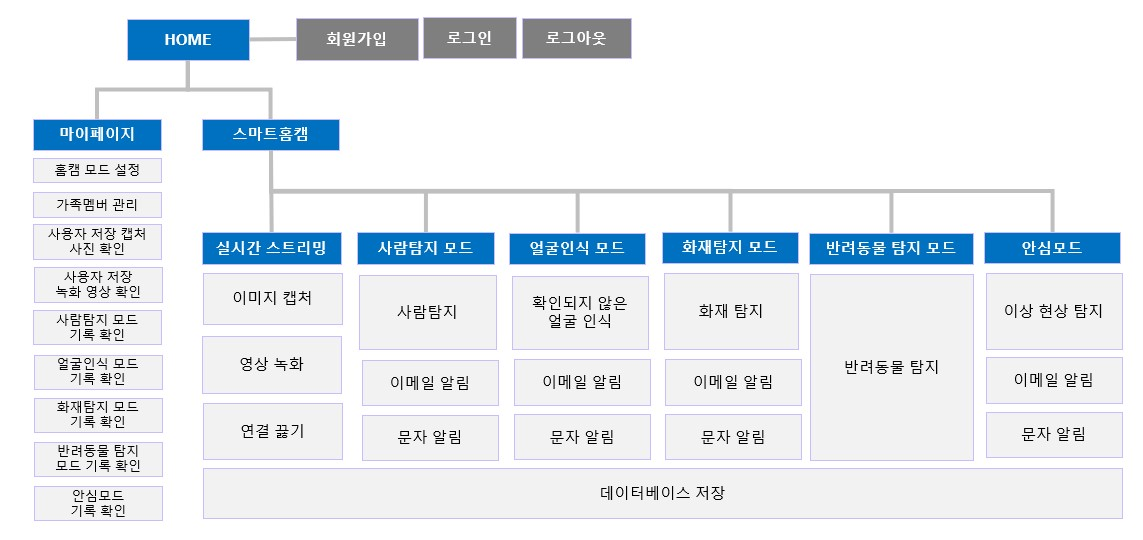
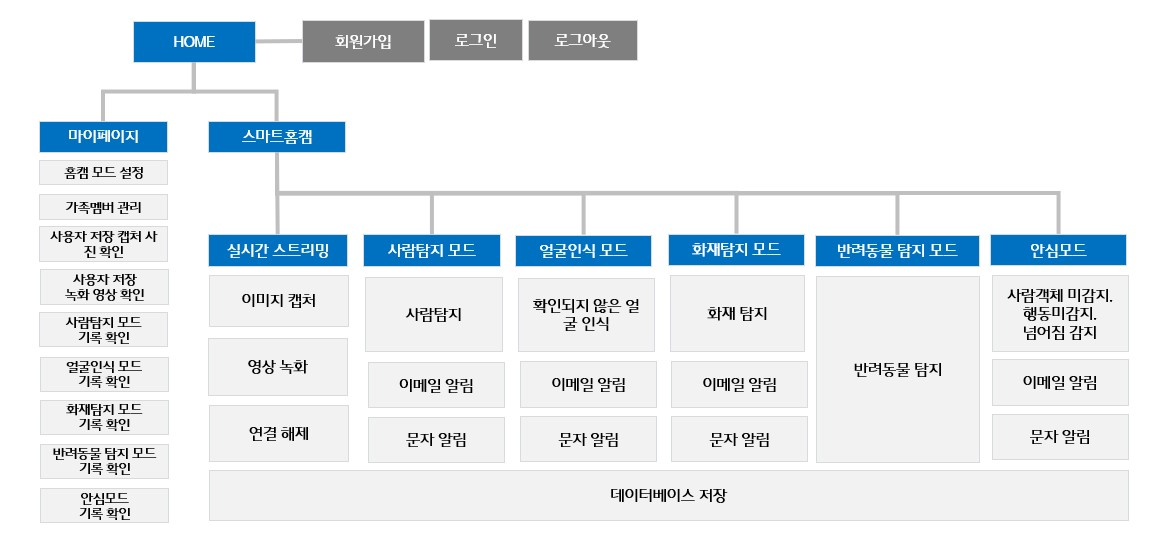
readme-20220616

diff --git a/README.md b/README.md
@@ -4,6 +4,9 @@
 
 라즈베리파이와 인공지능을 이용한 스마트 홈캠 웹 서비스
 
+## 주제 선정 배경
+1인 가구의 증가와 반려가구 1500만 시대에 따라 외출 중에  카메라를 통해 집안상황 확인, 방범 서비스, 화재감지, 반려동물을 확인을 할 수 있다.
+
 <br>
 
 ## 작품명
@@ -15,13 +18,6 @@ SmartHomeCam
 
 2022.04 ~ 개발 중
 
-<br>
-
-## 작품 기능
-
-- 계정 기능
-- 홈캠
-- 마이페이지
 
 <br>
 
@@ -37,3 +33,65 @@ SmartHomeCam
 
 ![구조](images/menu.jpg)
 
+<br>
+
+## 작품 기능
+
+![기능](images/fun1.jpg)
+
+<hr>
+
+
+### 기능 - 계정
+
+![기능](images/account1.jpg)
+
+
+<hr>
+
+### 기능 - 스마트 홈캠
+
+![기능](images/homecam1.jpg)
+<hr>
+
+![기능](images/homecam2.jpg)
+실시간 스트리밍 기능입니다. 연결된 홈캠을 클릭하면 실시간 스트리밍을 볼 수 있습니다. 녹화하기, 캡처하기, 연결끊기 버튼이 있습니다. 
+<hr>
+
+![기능](images/homecam3.jpg)
+사람탐지 모드입니다.
+<hr>
+
+![기능](images/homecam4.jpg)
+얼굴인식 모드입니다.
+<hr>
+
+![기능](images/homecam5.jpg)
+화재탐지 모드입니다.
+<hr>
+
+![기능](images/homecam6.jpg)
+반려동물 탐지모드입니다.
+<hr>
+
+![기능](images/homecam7.jpg)
+안심모드 입니다.
+
+<br>
+<br>
+<hr>
+
+### 기능 - 마이페이지
+
+![기능](images/mypage1.jpg)
+<hr>
+
+![기능](images/mypage2.jpg)
+홈캠 5가지 모드에 대해서 on/off 할 수 있습니다.
+
+<br>
+<br>
+
+## 데이터베이스
+
+![database](images/mysql.jpg)
